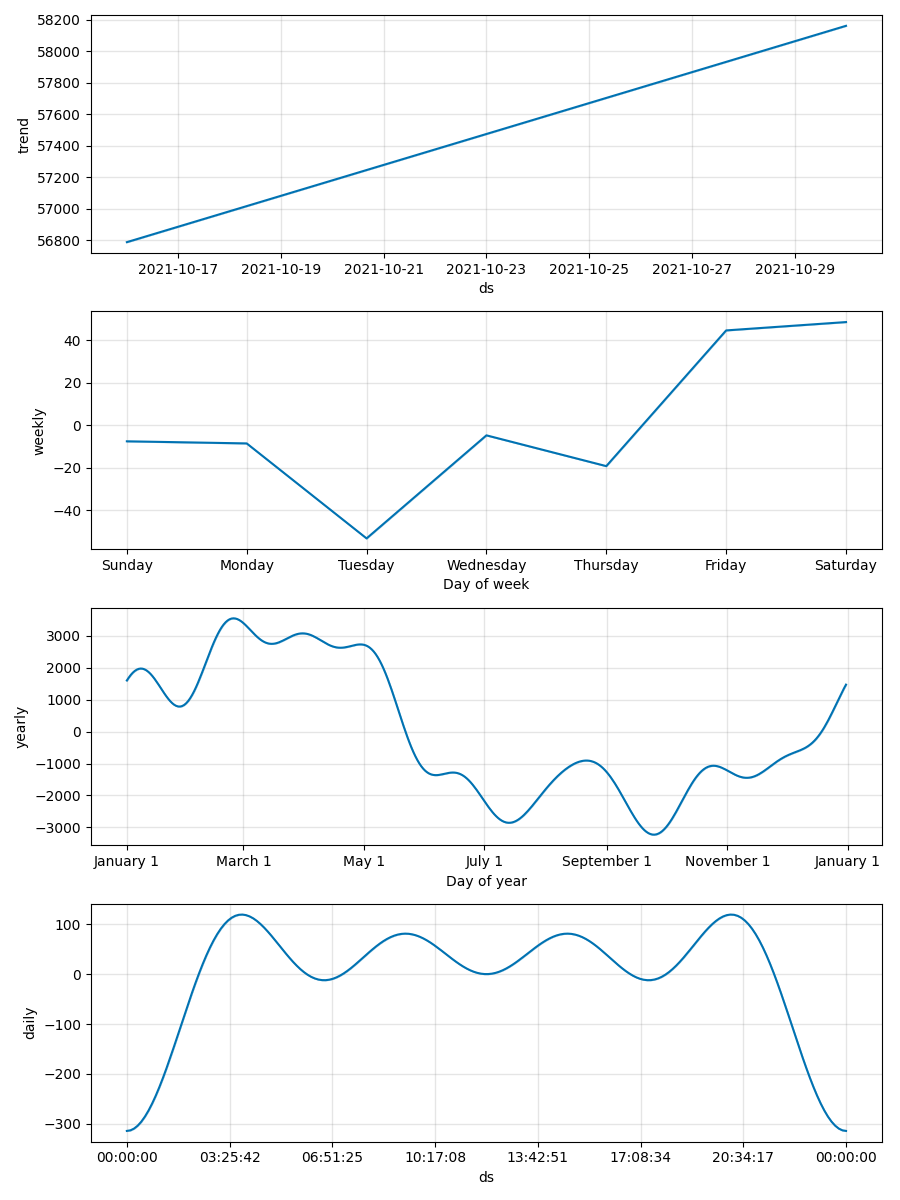
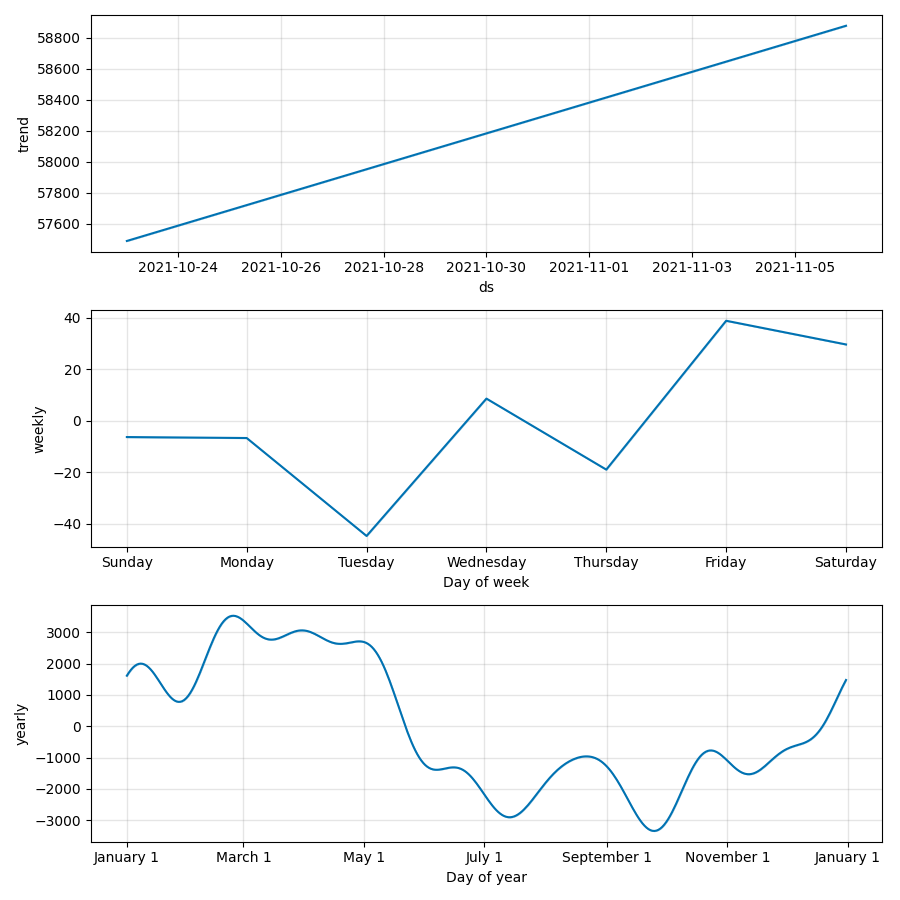
added the utils and ml folder

diff --git a/application.py b/application.py
@@ -1,21 +1,20 @@
-import pandas as pd 
-from fastapi import FastAPI,HTTPException,Query
-from typing import Optional,List,Dict
+import pandas as pd
+from fastapi import FastAPI, HTTPException, Query
+from typing import Optional, List, Dict
 from pydantic import BaseModel
 from coinbase.wallet.client import Client
 from decouple import config
 from random import randint
-##import the fauna driver
+# import the fauna driver
 from faunadb import query as q
 from faunadb.objects import Ref
 from faunadb.client import FaunaClient
-##import pytz and datetime to add timestamps to fauna db 
-from datetime import datetime,date
-##import ml model
-from model import predict
-#import the random identifier
-from utils import rand_identifier
-
+# import pytz and datetime to add timestamps to fauna db
+from datetime import datetime, date
+# import ml model
+from ml.model import predict
+# import the random identifier
+from utils.utils import rand_identifier
 
 
 fauna_client = FaunaClient(secret=config('FAUNA_SECRET_KEY'))
@@ -28,55 +27,56 @@ tags_metadata = [
     {
         "name": "forecast",
         "description": "Accepts a datetime (in the format YYY-MMM-DDD) object as input and forecasts the bitcoin price(in USD) for that particular date and a fortnight(13 days beyond)."
-        
+
     },
 ]
 app = FastAPI(
 
- title="Bitcoin Price predictor",
+    title="Bitcoin Price predictor",
     description="A Machine learning model built with Python,FastAPI and Fauna that predicts bitcoin prices (in USD and Naira) based on previous market and price data",
     version="1.1.0",
     openapi_tags=tags_metadata
 )
 
-##define the coinbase python client
-client = Client(config('COINBASE_API_KEY'),config('COINBASE_SECRET_KEY'))
+# define the coinbase python client
+client = Client(config('COINBASE_API_KEY'), config('COINBASE_SECRET_KEY'))
 
 
-##validate the date format via pydantic
+# validate the date format via pydantic
 class DateModel(BaseModel):
     date_entered: date
 
 
-@app.get('/price',tags=['btcprice'])
-###function to get current btc prices rates in usd and ngn
+@app.get('/price', tags=['btcprice'])
+# function to get current btc prices rates in usd and ngn
 async def get_btc():
     rates = client.get_exchange_rates(currency='BTC')
-    context = {"usd":rates["rates"]["USD"], "naira":rates["rates"]["NGN"]}
-    return {"current bitcoin exchange rates":context}
+    context = {"usd": rates["rates"]["USD"], "naira": rates["rates"]["NGN"]}
+    return {"current bitcoin exchange rates": context}
 
 
-
-@app.post('/predict', status_code=200,tags=['forecast'])
-###function to forecast current btc prices at a certain time of day
-async def forecast(date_input:DateModel, email:Optional[str]=Query('joane@doe.com',min_length=3,max_length=100,regex="^[a-z0-9]+[\._]?[a-z0-9]+[@]\w+[.]\w+$")):
+@app.post('/predict', status_code=200, tags=['forecast'])
+# function to forecast current btc prices at a certain time of day
+async def forecast(date_input: DateModel, email: Optional[str] = Query('joane@doe.com', min_length=3, max_length=100, regex="^[a-z0-9]+[\._]?[a-z0-9]+[@]\w+[.]\w+$")):
     date_entered = date_input.date_entered
     prediction_list = predict(date_entered)
-    ##generate a unique identifier along with the email address a user enters, this is to
-    ##prevent a unique document error in fauna anytime a user with the same email address tries to forecast a bitcoin app more than once
+    # generate a unique identifier along with the email address a user enters, this is to
+    # prevent a unique document error in fauna anytime a user with the same email address tries to forecast a bitcoin app more than once
     u_email_identifier = email + rand_identifier()
-    
-    ##stores the masked user email into fauna
+
+    # stores the masked user email into fauna
     try:
-        fauna_client.query(q.get(q.match(q.index("btcDB"), u_email_identifier)))
+        fauna_client.query(
+            q.get(q.match(q.index("btcDB"), u_email_identifier)))
     except:
         btc_user = fauna_client.query(q.create(q.collection("btcDB"), {
-        "data": {
-            "email_address": u_email_identifier,
-            "date": datetime.now().strftime('%Y-%m-%d, %H:%m:%S')
-        }
-    }))
+            "data": {
+                "email_address": u_email_identifier,
+                "date": datetime.now().strftime('%Y-%m-%d, %H:%m:%S')
+            }
+        }))
     if not prediction_list:
         raise HTTPException(status_code=400, detail="Model not found.")
-    response_object = {"email":email, "date entered":date_entered,"forecast":prediction_list}
+    response_object = {"email": email,
+                       "date entered": date_entered, "forecast": prediction_list}
     return response_object

diff --git a/utils/utils.py b/utils/utils.py
@@ -1,0 +1,50 @@
+from utils.get_data import get_btc_data
+from random import randint
+import s3fs
+import tempfile
+from decouple import config
+import pandas as pd
+import logging
+
+
+AWS_KEY = config('AWS_ID')
+AWS_SECRET = config('AWS_SECRET_KEY')
+
+BUCKET_NAME = "edjangobucket"
+
+# generate a random identifier to add to the db email field
+
+
+def rand_identifier():
+    rand_id = []
+    for i in range(12):
+        rand_id.append(chr(randint(65, 122)))
+
+    return "".join(rand_id)
+
+
+def get_s3fs():
+    return s3fs.S3FileSystem(key=AWS_KEY, secret=AWS_SECRET)
+
+
+def update_csv_file(file_name: str):
+    
+    with tempfile.TemporaryDirectory() as tmpdir:
+        s3_fs = get_s3fs()
+        s3_fs.get(f"{BUCKET_NAME}/{file_name}.csv", tmpdir + "/BTC_gotten.csv")
+
+        # write to  and update the csv file with the latest bitcoin data
+        with open(tmpdir + "/BTC_gotten.csv", "r+") as df:
+            frame = pd.read_csv(df)
+            new_frame = pd.concat([get_btc_data(), frame], ignore_index=True)
+            # check the updated data
+            print(new_frame.head(20))
+            new_file = "BTC_updated"
+            new_frame.to_csv(f"s3://{BUCKET_NAME}/{new_file}.csv", index=False)
+            s3_bucket = f"s3://{BUCKET_NAME}/{new_file}.csv"
+            logging.info(
+                "This data has been updated in the bucket {}".format(s3_bucket))
+    return "saved successfully"
+
+
+print(update_csv_file("BTC_Data"))

diff --git a/utils/get_data.py b/utils/get_data.py
@@ -1,0 +1,37 @@
+from selenium.webdriver import Firefox
+from selenium.webdriver.firefox.options import Options
+from dateutil import parser
+from datetime import datetime
+import pandas as pd
+
+URL = "https://coincodex.com/crypto/bitcoin/historical-data/"
+
+
+def to_num(n):
+    n_replace = n.replace("$", "")
+    n_replace_dot = n_replace.replace(",", "")
+    return float(n_replace_dot)
+
+
+def to_time(x):
+    x_parse = parser.parse(x)
+    x_date = datetime.date(x_parse)
+    return x_date
+
+
+def get_btc_data():
+
+    options = Options()
+    firefox_browser = Firefox(options=options)
+    firefox_browser.implicitly_wait(30)
+    firefox_browser.get(URL)
+
+    soup = firefox_browser.page_source
+    df = pd.read_html(soup)[0]
+    # get a list of the first seven closing prices in a list format
+    df['Close'] = df['Close'].apply(lambda x: to_num(x))
+    df['Date'] = df['Date'].apply(lambda n: to_time(n))
+    df = df[['Date', 'Close']]
+    new_df = df.tail(6)
+
+    return new_df[::-1]

diff --git a/ml/model.py b/ml/model.py
@@ -27,7 +27,7 @@ def train(model='bitcoin'):
     ##get the object name and the object key(the actual .csv file)
     bucket_name = 'edjangobucket'
     # object_key = 'BTC_Latest.csv'
-    object_key = 'BTC_Data.csv'
+    object_key = 'BTC_updated.csv'
 
     csv_object = client.get_object(Bucket=bucket_name, Key=object_key)
     csv_body = csv_object['Body']
@@ -38,7 +38,7 @@ def train(model='bitcoin'):
     ##get the date and closing price in order to forecast
     df_forecast = pd.DataFrame({'ds':[],'y':[]})
     df_forecast['ds'],df_forecast['y']= df['Date'],df['Close'] 
-    model_prop = Prophet(daily_seasonality=True,changepoint_prior_scale=0.05)
+    model_prop = Prophet()
     model_prop.fit(df_forecast)
     return model_prop
 
